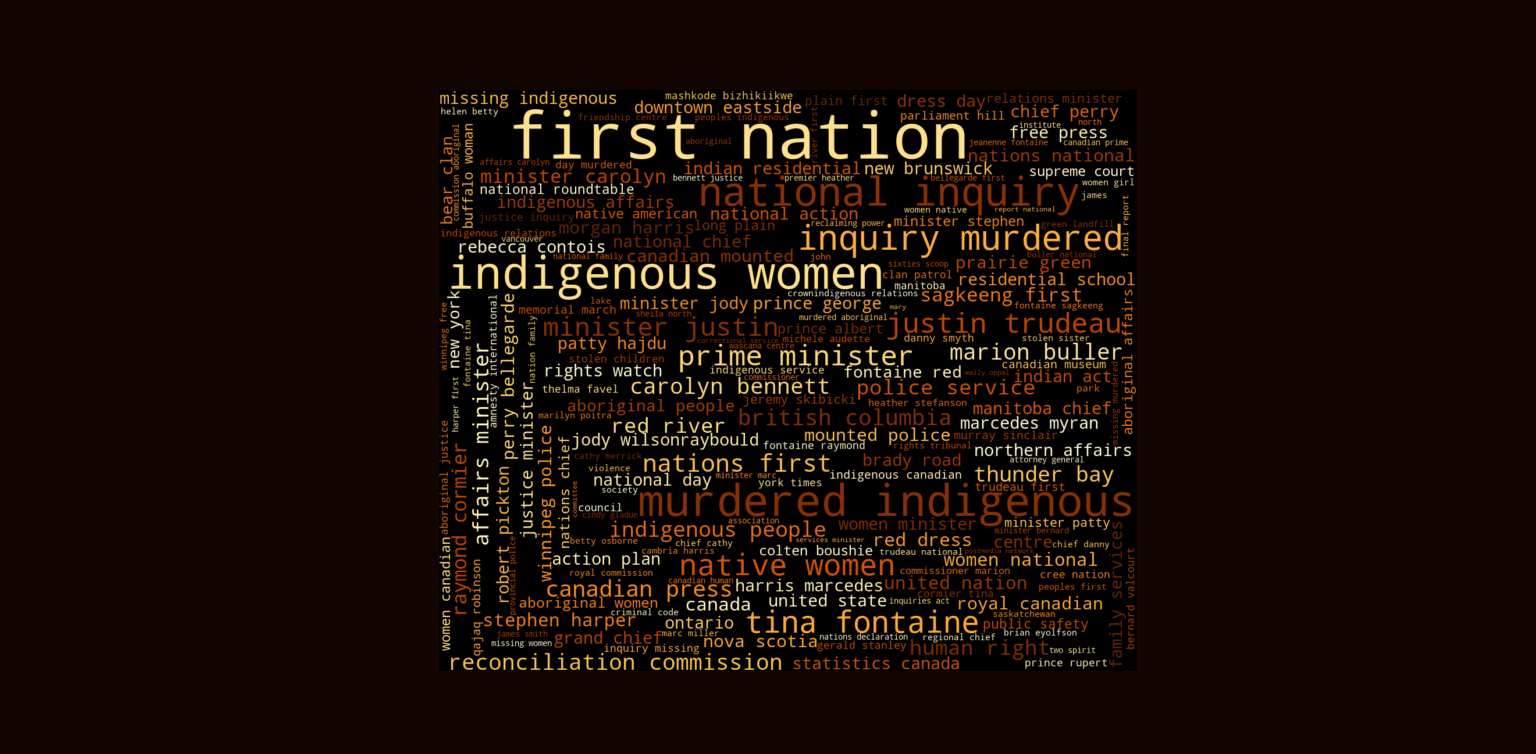
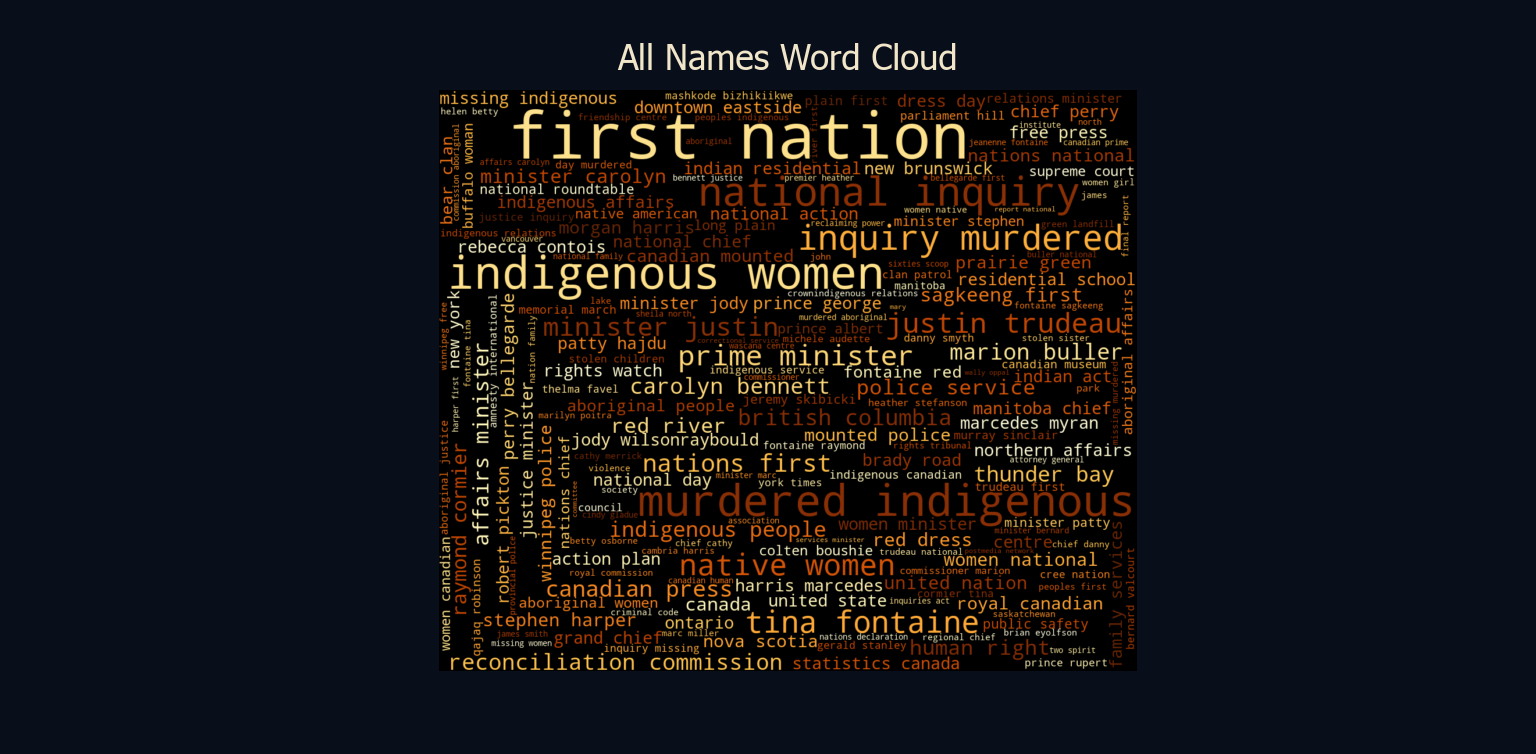
world cloud update commit

diff --git a/visualize_data/make_word_cloud.py b/visualize_data/make_word_cloud.py
@@ -18,11 +18,16 @@ with open('data/all_names.txt', 'r', encoding='utf-8') as f:
 
 # potential color maps PRGn_r, pastel purple and greesn, RdYlGn, green, yellow, orange, RdGy, grey, pastel pik, red
 
-background_color = "#120500"
+background_color = "#090E1B"
 # ValueError: 'RdYIGn_r' is not a valid value for name; supported values are 'Accent', 'Accent_r', 'Blues', 'Blues_r', 'BrBG', 'BrBG_r', 'BuGn', 'BuGn_r', 'BuPu', 'BuPu_r', 'CMRmap', 'CMRmap_r', 'Dark2', 'Dark2_r', 'GnBu', 'GnBu_r', 'Grays', 'Greens', 'Greens_r', 'Greys', 'Greys_r', 'OrRd', 'OrRd_r', 'Oranges', 'Oranges_r', 'PRGn', 'PRGn_r', 'Paired', 'Paired_r', 'Pastel1', 'Pastel1_r', 'Pastel2', 'Pastel2_r', 'PiYG', 'PiYG_r', 'PuBu', 'PuBuGn', 'PuBuGn_r', 'PuBu_r', 'PuOr', 'PuOr_r', 'PuRd', 'PuRd_r', 'Purples', 'Purples_r', 'RdBu', 'RdBu_r', 'RdGy', 'RdGy_r', 'RdPu', 'RdPu_r', 'RdYlBu', 'RdYlBu_r', 'RdYlGn', 'RdYlGn_r', 'Reds', 'Reds_r', 'Set1', 'Set1_r', 'Set2', 'Set2_r', 'Set3', 'Set3_r', 'Spectral', 'Spectral_r', 'Wistia', 'Wistia_r', 'YlGn', 'YlGnBu', 'YlGnBu_r', 'YlGn_r', 'YlOrBr', 'YlOrBr_r', 'YlOrRd', 'YlOrRd_r', 'afmhot', 'afmhot_r', 'autumn', 'autumn_r', 'binary', 'binary_r', 'bone', 'bone_r', 'brg', 'brg_r', 'bwr', 'bwr_r', 'cividis', 'cividis_r', 'cool', 'cool_r', 'coolwarm', 'coolwarm_r', 'copper', 'copper_r', 'cubehelix', 'cubehelix_r', 'flag', 'flag_r', 'gist_earth', 'gist_earth_r', 'gist_gray', 'gist_gray_r', 'gist_grey', 'gist_heat', 'gist_heat_r', 'gist_ncar', 'gist_ncar_r', 'gist_rainbow', 'gist_rainbow_r', 'gist_stern', 'gist_stern_r', 'gist_yarg', 'gist_yarg_r', 'gist_yerg', 'gnuplot', 'gnuplot2', 'gnuplot2_r', 'gnuplot_r', 'gray', 'gray_r', 'grey', 'hot', 'hot_r', 'hsv', 'hsv_r', 'inferno', 'inferno_r', 'jet', 'jet_r', 'magma', 'magma_r', 'nipy_spectral', 'nipy_spectral_r', 'ocean', 'ocean_r', 'pink', 'pink_r', 'plasma', 'plasma_r', 'prism', 'prism_r', 'rainbow', 'rainbow_r', 'seismic', 'seismic_r', 'spring', 'spring_r', 'summer', 'summer_r', 'tab10', 'tab10_r', 'tab20', 'tab20_r', 'tab20b', 'tab20b_r', 'tab20c', 'tab20c_r', 'terrain', 'terrain_r', 'turbo', 'turbo_r', 'twilight', 'twilight_r', 'twilight_shifted', 'twilight_shifted_r', 'viridis', 'viridis_r', 'winter', 'winter_r'
-wordcloud = WordCloud(width=1200, height=1000, random_state=42, max_font_size=110, colormap="YlOrBr_r", background_color="black").generate(cleaned_all_names)
+wordcloud = WordCloud(width=1200, height=1000, random_state=42, max_font_size=110, colormap="YlOrBr_r", background_color="black").generate(cleaned_body_text)
+
+# Set global font properties
+plt.rcParams['font.family'] = 'sans-serif'
+plt.rcParams['font.sans-serif'] = ['Tahoma']
 
 plt.figure(figsize=(10, 5), facecolor=background_color)
+plt.title("Article Bodies Word Cloud", fontsize=25, pad=15, color='#F1E6C9')
 plt.imshow(wordcloud, interpolation="bilinear")
 plt.axis('off')
 plt.show()
